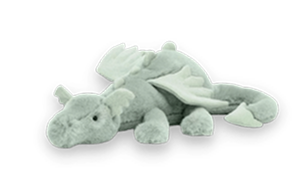
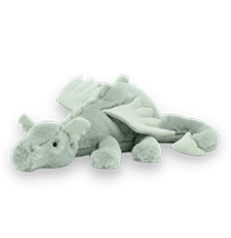
Ajustado imagens para terem o mesmo tamanho, iniciado estilização do título da seção 3

Changed region(s): [[0.0303, 0.2094, 0.9697, 0.8377], [0.7576, 0.6283, 0.7879, 0.6545], [0.4242, 0.3927, 0.4545, 0.4188]]

diff --git a/src/index.html b/src/index.html
@@ -147,40 +147,49 @@
 
 
         <!-- Seção 3: Acquista per la primavera -->
-        <section>
-            <header id="spring-collection">
+        <section id="spring-collection">
+            <header id="spring-collection-header">
                 <img src="./assets/images/icons/title-icons/blue-flower.png" alt="Little Blue Flower">
                 <h2>Acquista per la primavera</h2>
             </header>
 
-            <article>
-                <img src="./assets/images/products/teddy.png" alt="Teddy">
-                <h3>Teddy - 10.5 Orso</h3>
-                <img src="./assets/images/icons/stars-icons/group-stars.png" alt="Stars">
-                <p>$24</p>
-            </article>
+            <div class="plush-collection-articles" id="plush-gap">
+                <article class="plush-collection-articles-item-lower">
+                    <img id="plush-collection-articles-item-lower-product" src="./assets/images/products/teddy.png"
+                        alt="Teddy">
+                    <h3>Teddy - 10.5 Orso</h3>
+                    <img id="plush-collection-articles-item-lower-stars"
+                        src="./assets/images/icons/stars-icons/group-stars.png" alt="Stars">
+                    <p>$24</p>
+                </article>
 
-            <article>
-                <img src="./assets/images/products/trixy.png" alt="Trixy">
-                <h3>Trixy - 8.5 Tricerapoto</h3>
-                <img src="./assets/images/icons/stars-icons/group-stars.png" alt="Stars">
-                <p>$30</p>
-            </article>
+                <article class="plush-collection-articles-item-lower">
+                    <img id="plush-collection-articles-item-lower-product" src="./assets/images/products/trixy.png"
+                        alt="Trixy">
+                    <h3>Trixy - 8.5 Tricerapoto</h3>
+                    <img id="plush-collection-articles-item-lower-stars"
+                        src="./assets/images/icons/stars-icons/group-stars.png" alt="Stars">
+                    <p>$30</p>
+                </article>
 
-            <article>
-                <img src="./assets/images/products/bunny.png" alt="Bunny">
-                <h3>Bunny - 10.5 Coniglio</h3>
-                <img src="./assets/images/icons/stars-icons/group-stars.png" alt="Stars">
-                <p>$25</p>
-            </article>
+                <article class="plush-collection-articles-item-lower">
+                    <img id="plush-collection-articles-item-lower-product" src="./assets/images/products/bunny.png"
+                        alt="Bunny">
+                    <h3>Bunny - 10.5 Coniglio</h3>
+                    <img id="plush-collection-articles-item-lower-stars"
+                        src="./assets/images/icons/stars-icons/group-stars.png" alt="Stars">
+                    <p>$25</p>
+                </article>
 
-            <article>
-                <img src="./assets/images/products/gigi.png" alt="Gigi">
-                <h3>Gigi - 12.5 Giraffa</h3>
-                <img src="./assets/images/icons/stars-icons/group-stars.png" alt="Stars">
-                <p>$30</p>
-            </article>
-
+                <article class="plush-collection-articles-item-lower">
+                    <img id="plush-collection-articles-item-lower-product" src="./assets/images/products/gigi.png"
+                        alt="Gigi">
+                    <h3>Gigi - 12.5 Giraffa</h3>
+                    <img id="plush-collection-articles-item-lower-stars"
+                        src="./assets/images/icons/stars-icons/group-stars.png" alt="Stars">
+                    <p>$30</p>
+                </article>
+            </div>
             <button>
                 Esplora adesso
             </button>

diff --git a/src/styles/css/style.css b/src/styles/css/style.css
@@ -292,7 +292,7 @@ button {
 /*SEÇÃO 2*/
 /*Header*/
 .plush-collection {
-  padding: 2rem 5rem;
+  padding: 3rem 5rem;
   background-color: var(--color-off-white);
   display: flex;
   justify-content: center;
@@ -383,13 +383,80 @@ button {
 #spring-collection {
   display: flex;
   justify-content: center;
+  flex-direction: column;
+  gap: 4vw;
+  background-color: var(--color-off-white);
+}
+
+#plush-gap {
+  gap: 2vw;
+}
+
+#spring-collection-header {
+  display: flex;
+  justify-content: center;
   flex-direction: row;
   align-items: center;
 
   font-size: 1.5rem;
-  font-weight: 700;
-  font-style: medium italic;
+  font-variation-settings: "wght" 500;
+  font-style: italic;
   color: var(--color-dark-brown);
+  gap: 0.5vw;
+  background-color: var(--color-white);
+
+  max-width: 40rem;
+  margin: 0 auto;
+  padding: 0.2rem 0.8rem;
+
+  border-radius: 3rem;
+  border: 3px var(--color-gold) solid;
+  box-shadow: 0px 4px 5px rgba(0, 0, 0, 0.25);
+}
+
+#spring-collection-header img {
+  width: 2.7rem;
+  height: auto;
+}
+
+/*Coleção de Pelúcias*/
+.plush-collection-articles-item-lower {
+  display: flex;
+  flex-direction: column;
+  align-items: center;
+
+  flex: 1 1 20rem;
+
+  max-width: 15.792rem;
+  min-width: auto;
+
+  background-color: var(--color-white);
+
+  border-radius: clamp(1rem, 2vw, 2rem);
+  padding: 0.25rem;
+  padding-bottom: 1rem;
+
+  box-shadow: 0px 3px 6px rgba(0, 0, 0, 0.18), 0px 6px 10px rgba(0, 0, 0, 0.12);
+}
+
+#plush-collection-articles-item-lower-product {
+  width: 100%;
+
+  max-width: 15.4rem;
+  min-width: auto;
+
+  height: auto;
+  object-fit: cover;
+  background-color: var(--color-off-white);
+  border-top-left-radius: clamp(1rem, 2vw, 2rem);
+  border-top-right-radius: clamp(1rem, 2vw, 2rem);
+}
+
+#plush-collection-articles-item-lower-stars {
+  width: 100%;
+  max-width: 5.625rem;
+  height: auto;
+  object-fit: cover;
 }
 
 /* MOBILE */
